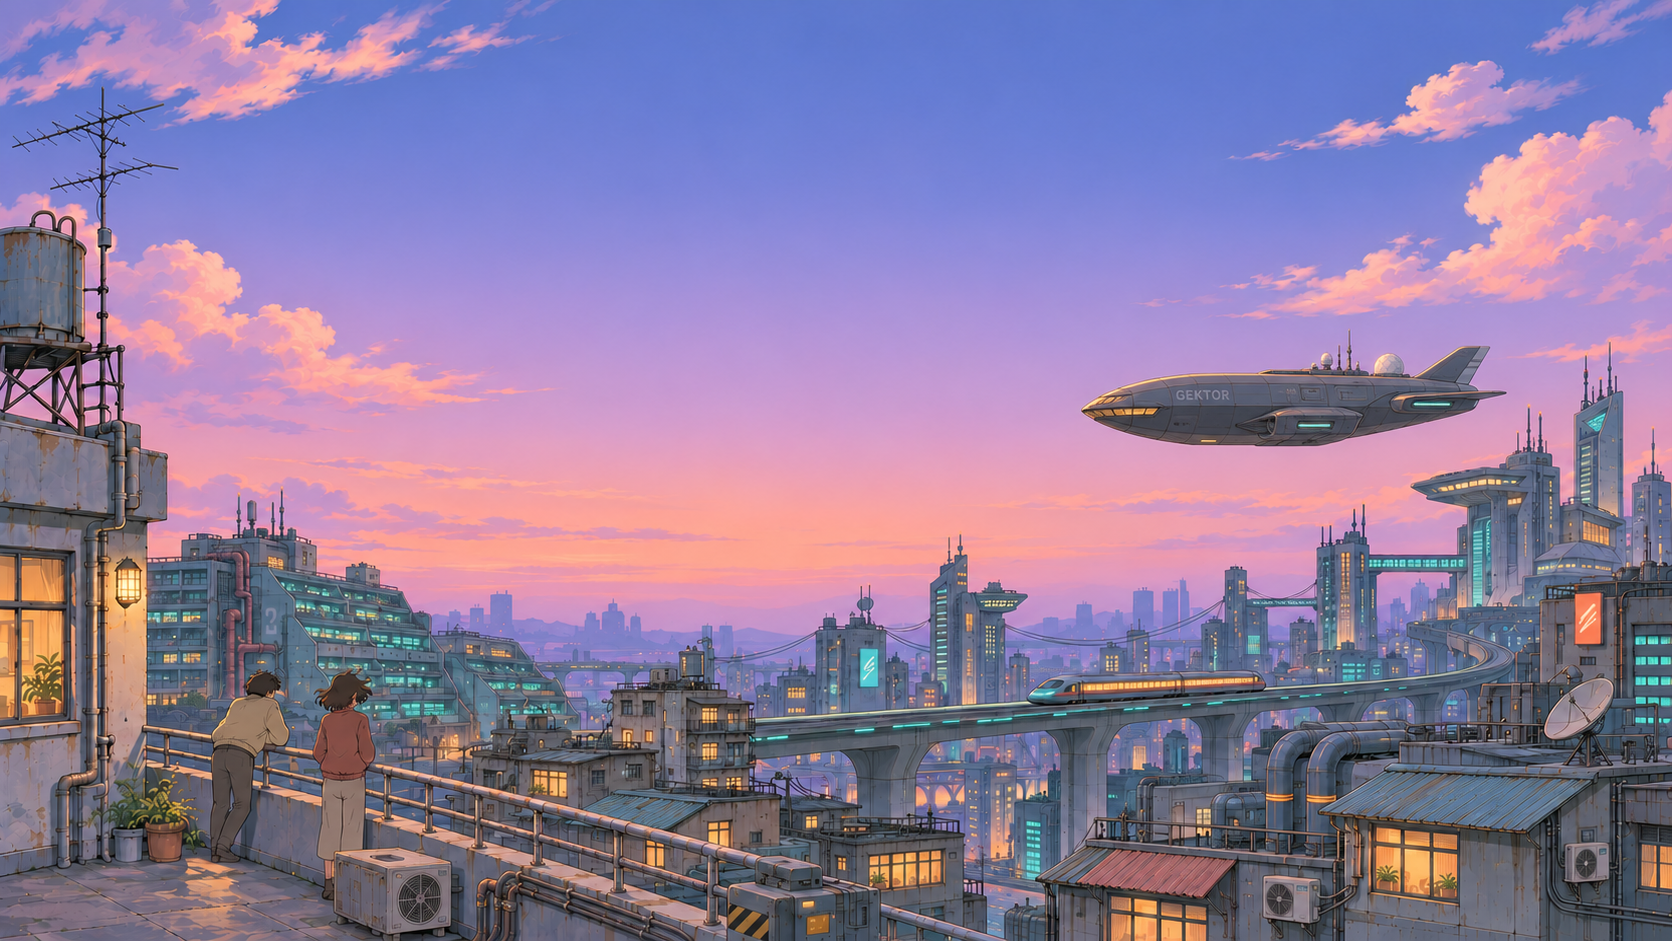
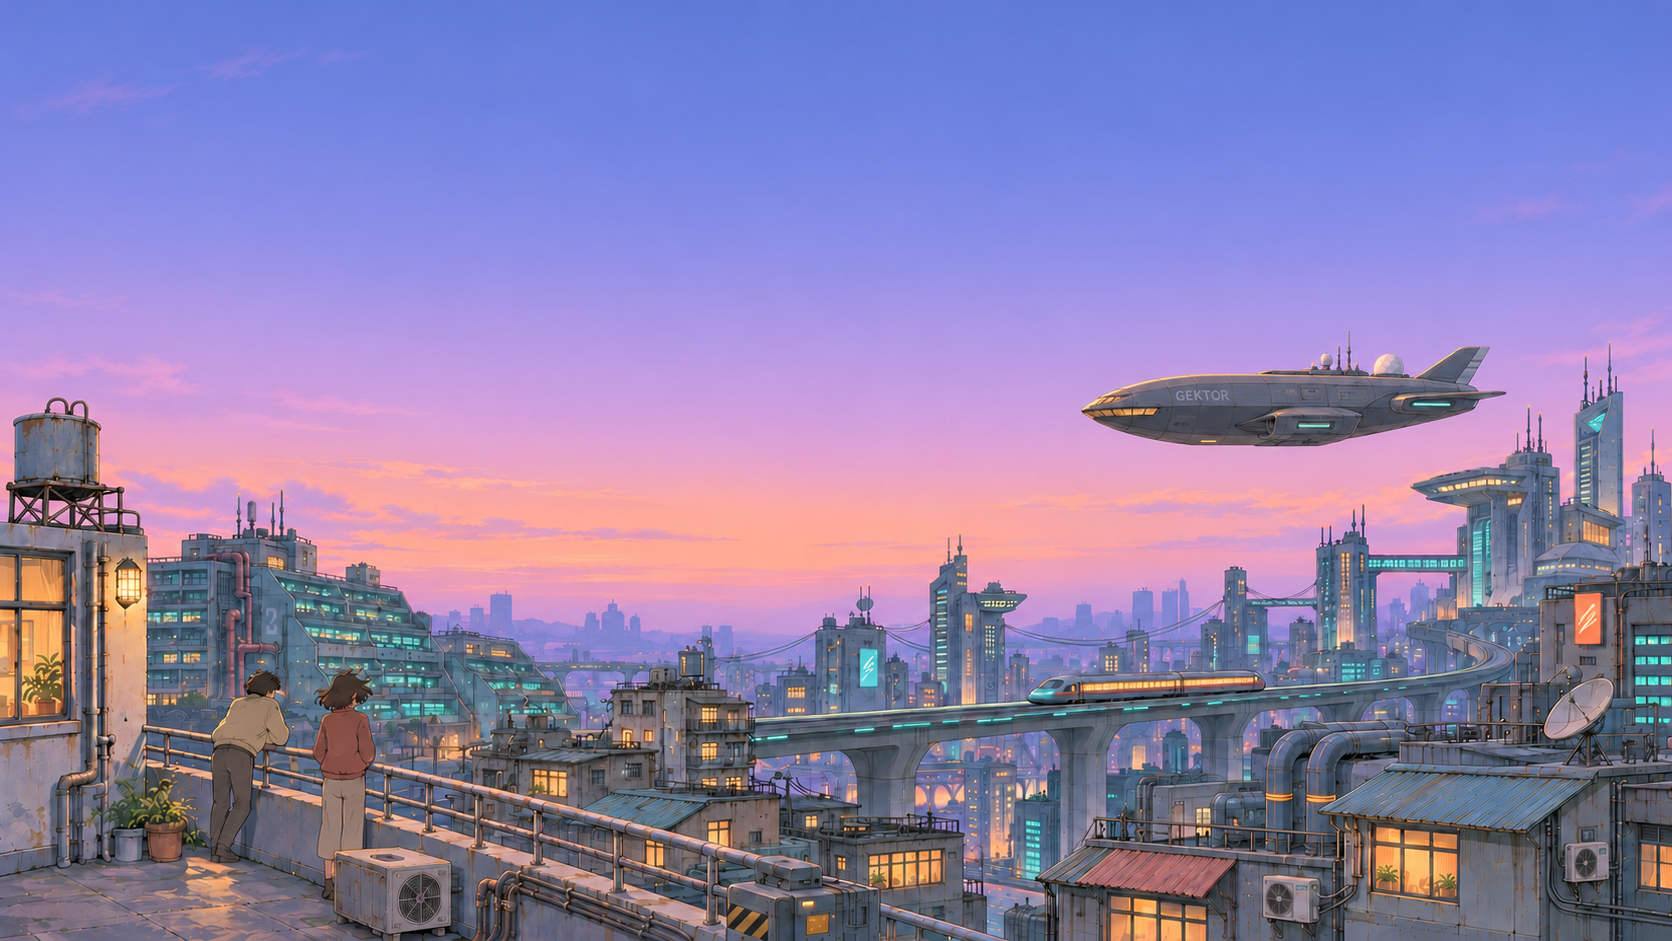
Regenerate hero artwork with clear sky behind transparent navigation

diff --git a/website/index.html b/website/index.html
@@ -8,12 +8,12 @@
     <meta property="og:title" content="GEKTOR — Code and workflows in your terminal" />
     <meta property="og:description" content="Use an agent to inspect and edit files, or define workflows you can run again with new inputs. An open-source coding agent and workflow runner for Windows and Linux." />
     <meta property="og:type" content="website" />
-    <meta property="og:image" content="https://gektor.keshon.ru/images/city-dusk.webp" />
+    <meta property="og:image" content="https://gektor.keshon.ru/images/city-dusk-clear-sky.webp" />
     <meta property="og:url" content="https://gektor.keshon.ru/" />
     <link rel="canonical" href="https://gektor.keshon.ru/" />
     <title>GEKTOR — Code and workflows in your terminal</title>
     <link rel="icon" href="/favicon.svg" type="image/svg+xml" />
-    <link rel="preload" as="image" href="/images/city-dusk.webp" media="(min-width: 1000px), (orientation: landscape)" fetchpriority="high" />
+    <link rel="preload" as="image" href="/images/city-dusk-clear-sky.webp" media="(min-width: 1000px), (orientation: landscape)" fetchpriority="high" />
     <link rel="preload" as="image" href="/images/city-dusk-mobile.webp" media="(max-width: 999px) and (orientation: portrait)" fetchpriority="high" />
     <link rel="stylesheet" href="/src/style.css" />
   </head>
@@ -22,7 +22,7 @@
     <div class="landscape" aria-hidden="true">
       <picture>
         <source media="(max-width: 999px) and (orientation: portrait)" srcset="/images/city-dusk-mobile.webp" />
-        <img src="/images/city-dusk.webp" alt="" width="1672" height="941" fetchpriority="high" />
+        <img src="/images/city-dusk-clear-sky.webp" alt="" width="1672" height="941" fetchpriority="high" />
       </picture>
       <div class="landscape__shade"></div>
     </div>

diff --git a/website/src/style.css b/website/src/style.css
@@ -23,9 +23,9 @@ a:focus-visible, button:focus-visible, [tabindex='0']:focus-visible { outline: 1
 /* Shade only the navigation and lower edge; leave the painted sky and city luminous. */
 .landscape__shade { background: linear-gradient(180deg, rgb(16 29 51 / 28%), transparent 16%, transparent 76%, rgb(10 25 39 / 55%)); }
 
-/* Navigation gets its own opaque surface: scenery cannot cut through the mark or links. */
-.masthead { position: fixed; z-index: 10; top: 0; left: 0; right: 0; display: flex; justify-content: space-between; align-items: center; padding: 24px var(--gutter) 18px; background: var(--ground); border-bottom: 1px solid transparent; }
-.masthead--content { border-bottom-color: var(--line); }
+/* The artwork reserves clear sky behind the logo and navigation. */
+.masthead { position: fixed; z-index: 10; top: 0; left: 0; right: 0; display: flex; justify-content: space-between; align-items: center; padding: 24px var(--gutter) 18px; background: transparent; border: 0; transition: background .25s; }
+.masthead--content { background: var(--ground); border-bottom: 1px solid var(--line); }
 .brand { display: flex; gap: 15px; align-items: center; }
 .brand__mark { width: 44px; height: 44px; stroke: currentColor; stroke-width: 1.9; }
 .brand__type { font-size: 19px; font-weight: 500; line-height: 1.1; letter-spacing: .2em; }
